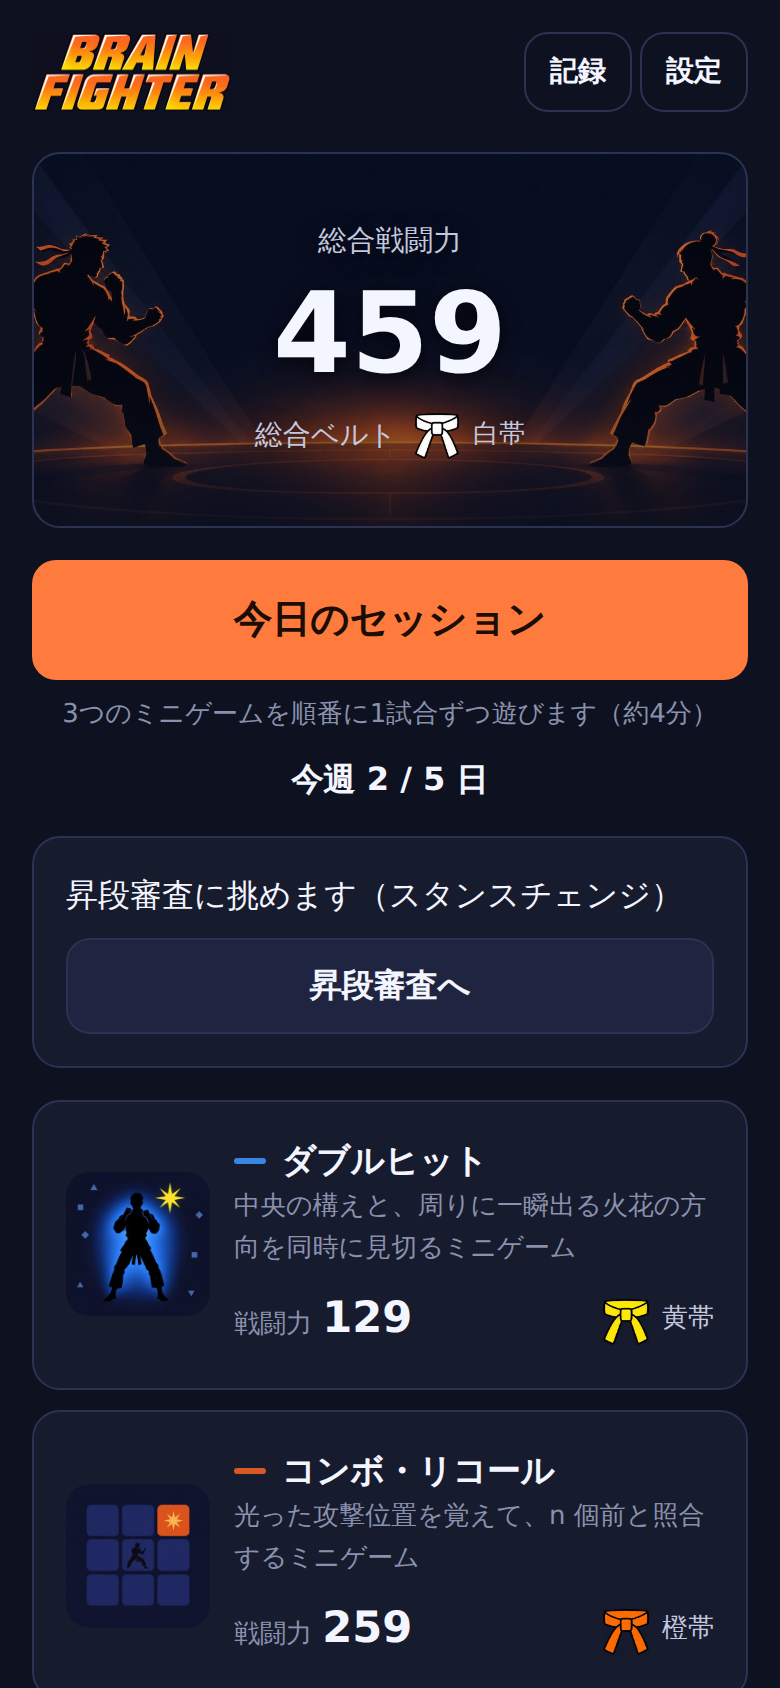
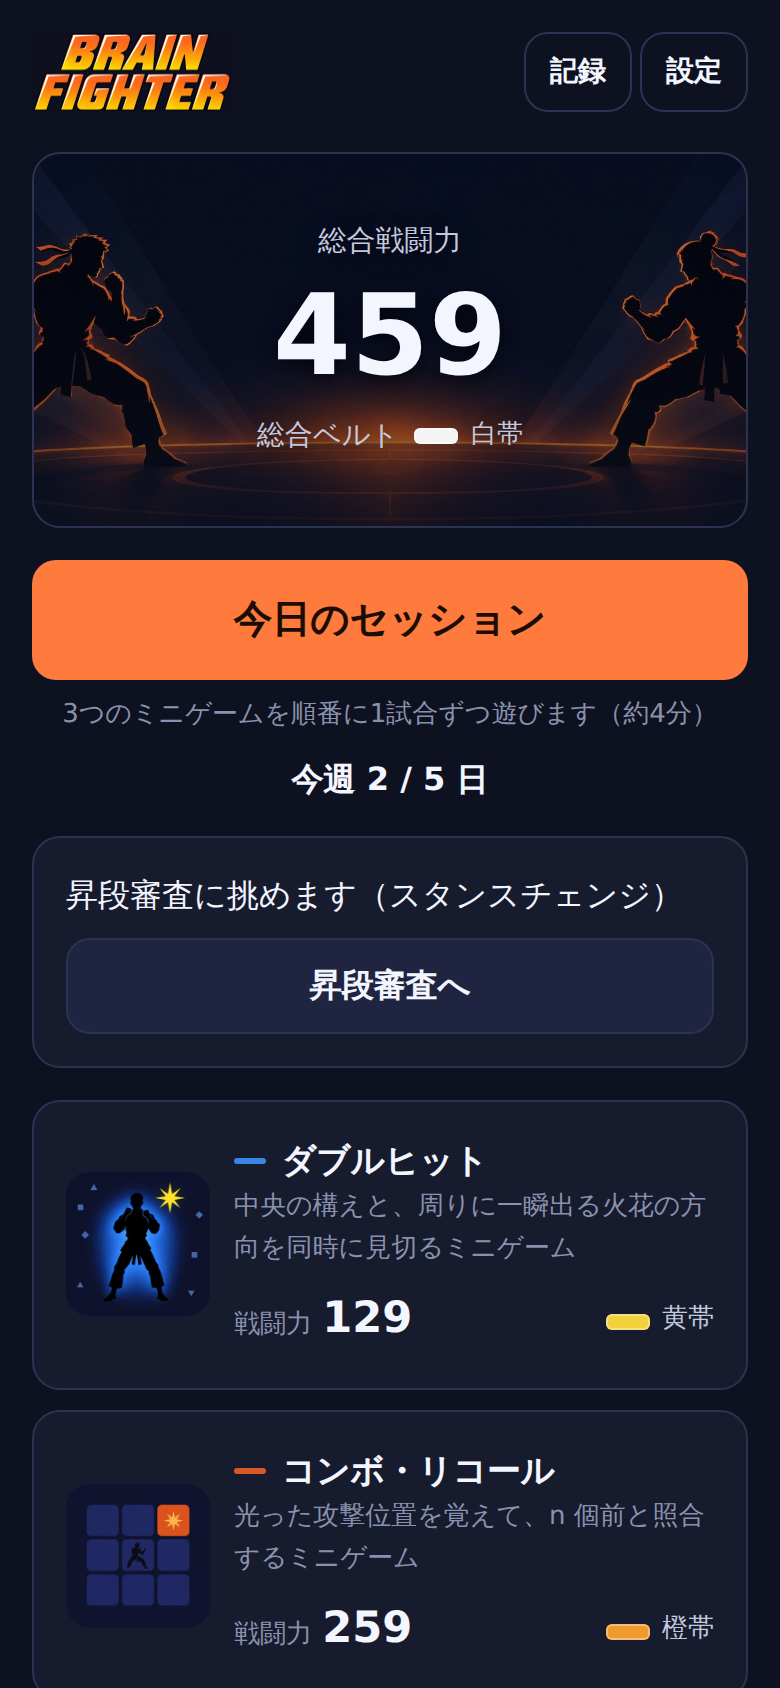
ダブルヒットの構えを生成シルエットで描く（仕様書 v1.7）。ビルド ID の表示と新版の自動再読み込みを追加
cloud-workspace リポジトリの brain-fighter/（ブランチ ccr-7d8c70c1-ms9nqj、コミット cb933bb）を反映:
- ダブルヒットの中央の敵（構え）を、正面向きの敵 4 体 × 上段・中段・下段 の生成シルエットで描く。
  図形と同じ外接矩形・同じ色・同じ提示時間で、火花・妨害・マスクは図形のまま。読み込み前は図形
- 設定画面の「バージョン」にビルド ID（日付＋コミット）を併記。新しい版は試合中以外で自動再読み込み
- 公開版の表示（一本勝負・判定負けの「次は ◯ 問正解で KO」・汎用の一言の順番）を取り込み済み
- 単体テスト 474 件、E2E（演出プリセット・スモーク・同値性・認定戦・案内・埋め込み・PWA）が緑

Claude-Session: https://claude.ai/code/session_01LeejvMbRXbY8z87NwHNxxe

diff --git a/src/games/double-hit/render.ts b/src/games/double-hit/render.ts
@@ -5,11 +5,14 @@
  * 表層バリエーション（surface）で変わるのは、敵シルエットの形（髪・体格・道着）と背景色だけ。
  * 背景色は相対輝度をそろえてあり、刺激の大きさ・色・コントラスト・提示時間は変わらない。
  * 構えの区別（拳の高さ）は、どのバリエーションでも同じ形。
+ * 敵シルエットは、ラウンドの開始時に読み込み済みなら生成画像（fighters/dh-*-*.png。仕様書 v1.7）を
+ * 図形と同じ外接矩形・同じ色で描き、無ければ図形で描く（drawFigure）。火花・妨害・マスクは常に図形。
  *
  * 認定戦（view.untrained）では、火花と妨害の形・色を訓練と別のセットにする（輝度はそろえてある）。
  */
 import { mulberry32 } from '../../engine/rng';
 import type { PhaseName, RenderView, Response } from '../../engine/types';
+import { artInRound, drawSprite, type SpriteKey } from '../../skin/art';
 import { DIR_GROUP, DIRS, dirVector, type StanceId } from './layout';
 import { sparkPosition, type DhTrial, type Distractor } from './trials';
 
@@ -69,6 +72,17 @@ export const DISTRACTOR_R = 0.034;
 export const SOCKET_R = 0.085;
 /** シルエット全体の高さ（上段の拳の上端〜足元）。刺激領域の中心に置き、上下 ±0.22 に収まる */
 export const FIGURE_HEIGHT = 0.44;
+
+/**
+ * 構えの生成シルエット（表層の体 × 構え。仕様書 v1.7）。上段の拳の上端〜足元の高さが図形と同じ FIGURE_HEIGHT になるよう
+ * 加工してあり（scripts/art/process.mjs の ref = 上段）、中段・下段は同じ倍率なので頭の高さが同じで拳の高さだけ違う。
+ */
+export const STANCE_SPRITES: Readonly<Record<FigureVariant, Readonly<Record<StanceId, SpriteKey>>>> = {
+  plain: { high: 'dh-plain-high', mid: 'dh-plain-mid', low: 'dh-plain-low' },
+  topknot: { high: 'dh-topknot-high', mid: 'dh-topknot-mid', low: 'dh-topknot-low' },
+  broad: { high: 'dh-broad-high', mid: 'dh-broad-mid', low: 'dh-broad-low' },
+  robe: { high: 'dh-robe-high', mid: 'dh-robe-mid', low: 'dh-robe-low' },
+};
 
 const SOCKET_FILL = 'rgba(255, 255, 255, 0.06)';
 const SOCKET_STROKE = 'rgba(201, 207, 232, 0.55)';
@@ -147,7 +161,11 @@ const BODIES: Record<FigureVariant, Body> = {
   robe: { headR: 0.095, shoulderW: 0.155, waistW: 0.095, legW: 0.1, topknot: false, robe: true },
 };
 
-/** シルエットを描く（cx, cy = 刺激領域の中心、R = 刺激領域の半径） */
+/**
+ * シルエットを描く（cx, cy = 刺激領域の中心、R = 刺激領域の半径）。
+ * ラウンドの開始時に読み込み済みの生成シルエットがあれば、図形と同じ外接矩形（中心 ±0.22R）・同じ色で描く。
+ * 無ければ（読み込み前・読めない環境・Node のテスト）図形で描く。
+ */
 export function drawFigure(
   ctx: CanvasRenderingContext2D,
   cx: number,
@@ -156,6 +174,10 @@ export function drawFigure(
   stance: StanceId,
   variant: FigureVariant,
 ): void {
+  const box = FIGURE_HEIGHT * R;
+  if (drawSprite(ctx, STANCE_SPRITES[variant][stance], { x: cx, ground: cy + box / 2, height: box, facing: 1, color: FIGURE_COLOR }, artInRound)) {
+    return;
+  }
   const h = (FIGURE_HEIGHT * R) / (FIG_BOTTOM - FIG_TOP);
   const feetY = cy - ((FIG_TOP + FIG_BOTTOM) / 2) * h;
   const X = (p: Pt, side: number): number => cx + side * p.x * h;

diff --git a/src/games/double-hit/trials.test.ts b/src/games/double-hit/trials.test.ts
@@ -2,6 +2,7 @@
  * ダブルヒットの試行列（系列の制約・妨害の配置）、判定の内訳、応答レイアウト・キー、刺激領域のタップ、描画。
  */
 import { describe, expect, it } from 'vitest';
+import { ART_SPRITES, SPRITE_STANDING_HEIGHT } from '../../skin/art';
 import { mulberry32 } from '../../engine/rng';
 import { maxRunLength } from '../../engine/sequence';
 import { layoutGroups, type RenderView, type RoundOptions } from '../../engine/types';
@@ -12,12 +13,14 @@ import { paramsAt, certDhParams } from './params';
 import {
   DISTRACTOR_R,
   FIGURE_COLOR,
+  FIGURE_HEIGHT,
   MASK_RES,
   SPARK_R,
   SURFACES,
   TRAINED_SET,
   UNTRAINED_SET,
   figureExtent,
+  STANCE_SPRITES,
   maskPixels,
   renderTrial,
 } from './render';
@@ -100,6 +103,23 @@ describe('妨害の配置', () => {
     }
     expect(problems).toEqual([]);
   }, 30_000);
+
+  it('構えの生成シルエット（4 体 × 3 構え）は図形と同じ外接矩形に収まる（高さ 0.44R・横 ±0.16R。仕様書 v1.7）', () => {
+    const scale = FIGURE_HEIGHT / SPRITE_STANDING_HEIGHT; // R = 1 のときの px → 比
+    for (const variant of SURFACES.map((s) => s.figure)) {
+      const keys = STANCE_SPRITES[variant];
+      for (const stance of ['high', 'mid', 'low'] as const) {
+        const e = ART_SPRITES[keys[stance]];
+        const height = e.h * scale;
+        const halfWidth = (e.w * scale) / 2;
+        expect(height, keys[stance]).toBeLessThanOrEqual(0.45);
+        expect(halfWidth, keys[stance]).toBeLessThan(0.16);
+        // 上段は拳の上端〜足元が外接矩形いっぱい（高さの基準）。中段・下段は頭が上端なので低い
+        if (stance === 'high') expect(height, keys[stance]).toBeGreaterThan(0.43);
+        else expect(height, keys[stance]).toBeLessThan(ART_SPRITES[keys.high].h * scale);
+      }
+    }
+  });
 
   it('置き場所どうし・火花・中央のシルエットと重ならず、刺激領域の内側に収まる', () => {
     const fig = figureExtent();

diff --git a/src/skin/art-manifest.ts b/src/skin/art-manifest.ts
@@ -19,6 +19,18 @@ export const ART_SPRITES = {
   'enemy-front-a': { file: 'fighters/enemy-front-a.png', w: 310, h: 648 },
   'enemy-front-b': { file: 'fighters/enemy-front-b.png', w: 365, h: 668 },
   'enemy-front-c': { file: 'fighters/enemy-front-c.png', w: 298, h: 645 },
+  'dh-plain-high': { file: 'fighters/dh-plain-high.png', w: 239, h: 647 },
+  'dh-plain-mid': { file: 'fighters/dh-plain-mid.png', w: 236, h: 586 },
+  'dh-plain-low': { file: 'fighters/dh-plain-low.png', w: 238, h: 586 },
+  'dh-topknot-high': { file: 'fighters/dh-topknot-high.png', w: 240, h: 647 },
+  'dh-topknot-mid': { file: 'fighters/dh-topknot-mid.png', w: 240, h: 600 },
+  'dh-topknot-low': { file: 'fighters/dh-topknot-low.png', w: 240, h: 600 },
+  'dh-broad-high': { file: 'fighters/dh-broad-high.png', w: 237, h: 647 },
+  'dh-broad-mid': { file: 'fighters/dh-broad-mid.png', w: 238, h: 571 },
+  'dh-broad-low': { file: 'fighters/dh-broad-low.png', w: 236, h: 571 },
+  'dh-robe-high': { file: 'fighters/dh-robe-high.png', w: 231, h: 647 },
+  'dh-robe-mid': { file: 'fighters/dh-robe-mid.png', w: 234, h: 581 },
+  'dh-robe-low': { file: 'fighters/dh-robe-low.png', w: 236, h: 581 },
 } as const satisfies Record<string, ArtEntry>;
 
 export type SpriteKey = keyof typeof ART_SPRITES;
@@ -44,14 +56,4 @@ export const ART_UI = {
 
 /** ベルト（0 白帯 … 9 黒帯二段）。無ければ空（CSS の色見本で代用する） */
 export const ART_BELTS: readonly ArtEntry[] = [
-  { file: 'ui/belt-0.png', w: 80, h: 84 },
-  { file: 'ui/belt-1.png', w: 81, h: 84 },
-  { file: 'ui/belt-2.png', w: 81, h: 84 },
-  { file: 'ui/belt-3.png', w: 81, h: 84 },
-  { file: 'ui/belt-4.png', w: 81, h: 84 },
-  { file: 'ui/belt-5.png', w: 81, h: 84 },
-  { file: 'ui/belt-6.png', w: 81, h: 84 },
-  { file: 'ui/belt-7.png', w: 81, h: 84 },
-  { file: 'ui/belt-8.png', w: 81, h: 84 },
-  { file: 'ui/belt-9.png', w: 81, h: 84 },
 ];

diff --git a/src/skin/art.ts b/src/skin/art.ts
@@ -30,6 +30,19 @@ const NATURAL_FACING: Readonly<Record<SpriteKey, 1 | -1 | 0>> = {
   'enemy-front-a': 0,
   'enemy-front-b': 0,
   'enemy-front-c': 0,
+  // ダブルヒットの構え（正面）
+  'dh-plain-high': 0,
+  'dh-plain-mid': 0,
+  'dh-plain-low': 0,
+  'dh-topknot-high': 0,
+  'dh-topknot-mid': 0,
+  'dh-topknot-low': 0,
+  'dh-broad-high': 0,
+  'dh-broad-mid': 0,
+  'dh-broad-low': 0,
+  'dh-robe-high': 0,
+  'dh-robe-mid': 0,
+  'dh-robe-low': 0,
 };
 
 export function artUrl(file: string): string {

diff --git a/DESIGN_NOTES.md b/DESIGN_NOTES.md
@@ -204,7 +204,7 @@
 ## 画像素材（生成画像。フェーズ4）
 
 - 画像は GPT Image 2.5（Genspark CLI、`../genspark-image/gen.sh`）で生成した。元画像は `art-src/raw/`、プロンプトとオプションは `art-src/PROMPTS.md`、加工は `scripts/art/process.mjs`（ImageMagick 6。`npm run art`）。出力は `public/art/`（約 650KB）と `public/icons/`、一覧と寸法は `src/skin/art-manifest.ts`（生成物）。
-- 仕様書 9.2「外部画像素材を使わない」の解釈: 他者の素材（ドット絵パックなど）は使わないまま、自分で生成した静止画を演出層と UI に使う。刺激そのもの（ダブルヒットの構え・火花・妨害・マスク、コンボ・リコールの点灯マス、スタンスチェンジの攻撃アイコンと構えのプレート）は図形のままで、大きさ・色・コントラスト・提示時間は変えていない（MUST）。
+- 仕様書 9.2「外部画像素材を使わない」の解釈: 他者の素材（ドット絵パックなど）は使わないまま、自分で生成した静止画を演出層と UI に使う。刺激のうち火花・妨害・マスク（ダブルヒット）、点灯マス（コンボ・リコール）、攻撃アイコンと構えのプレート（スタンスチェンジ）は図形のままで、大きさ・色・コントラスト・提示時間は変えていない（MUST）。ダブルヒットの中央の敵（構え）だけは、下の「ダブルヒットの構えのシルエット」のとおり生成画像で描く（仕様書 v1.7）。
 - 使う場所: ホーム（ロゴ・キービジュアルの上に総合戦闘力・ゲームカードのサムネイル・ベルトのアイコン）、初回の案内（キービジュアル＋ロゴ）、上帯のアバター（HP バーの外側の静止画）、ラウンド間と結果画面のファイターの絵（ラウンドの外）、Full の静的な背景（ステージの画像を画面全体に敷いて暗い膜をかける。刺激領域は不透明なので重ならない）、コンボ・リコールの中央の敵とスタンスチェンジの薄い敵（刺激領域の中だが、点灯・アイコンの位置と色には関わらない盤の一部の静止画）、アプリアイコン。
 - 画像が無い・読めない環境では、どの場所も今までの図形の描画に戻る（Node のユニットテストはこの経路で、画像の有無で描画の呼び出しが変わらないことを確かめている）。
 - 刺激領域で使う画像は、ラウンドの開始時（`GameStage.runRound`）に読み込み済みのものに固定する（`freezeArtForRound` / `artInRound`）。途中で読み終わった画像は次のラウンドから使う（ラウンドの途中で見た目が変わらない。仕様書 4.2・9.5）。起動時に試合で使う画像を先に読む（`preloadArt`）。
@@ -245,3 +245,10 @@
 - 設定画面の「バージョン」にビルド ID（日付＋コミットの先頭 7 桁。`vite.config.ts` の `__BUILD_ID__`。Actions では `GITHUB_SHA`）を併記し、どの版が配信されているかを見分けられるようにした。`package.json` の版は 0.2.0 に。
 - 新しい版の取り込み: Service Worker は `skipWaiting` + `clientsClaim` で、開いている画面もすぐ新しい SW が引き継ぐ。`src/main.ts` は `controllerchange` で一度だけ再読み込みする（初回のインストールでは何もしない。試合・審査の画面では待って、次の画面に移るときに再読み込み）。タブが前面に戻ったときにも `registration.update()` で確かめる。`?test=1` では無効。
 - それでも古い版が出るときは、タブをすべて閉じて開き直す（1 回目で新しい SW が入り、2 回目から新しい画面）。ホーム画面に追加した PWA は、開き直したときに同じ流れで更新される。
+
+## ダブルヒットの構えのシルエット（生成画像。仕様書 v1.7）
+
+- 公開後に「ダブルヒットが古いまま」というフィードバックがあった（中央の敵が図形のままで、ほかの 2 ゲームの敵は画像になっていた）。中央の敵は刺激そのものなので、仕様書 9.2 に条件を足して（v1.7）生成シルエットで描くことにした。
+- 素材: 表層バリエーションの 4 体（標準・髷・がっしり・道着）それぞれに 上段・中段・下段 の 3 構えを 1 枚のシートで生成（`art-src/raw/dh-*-sheet.jpg`、`npm run art` で `fighters/dh-*-*.png` に分ける。高さの基準は上段 = 拳の上端〜足元）。
+- 描き方（`drawFigure`）: ラウンドの開始時に読み込み済みのスプライト（`artInRound`）があれば、図形と同じ外接矩形（中心 ±0.22R、高さ 0.44R）・同じ色（`FIGURE_COLOR` に染める）・同じ背景で描く。上段の拳の上端が矩形の上端、足元が下端。中段・下段は同じ倍率で描くので頭の高さは同じで、拳の高さだけが違う。無ければ従来の図形（Node のテストはこの経路）。火花・妨害・マスク・応答の丸は変えていない。
+- 確かめたこと: スプライトの寸法から、どの構えも図形の外接矩形（横 ±0.16R）に収まること（`trials.test.ts`）。シートの各構えの拳の高さ（上段 = 頭より上、中段 = 肩、下段 = 腰）は加工時に目で確かめた。

diff --git a/art-src/PROMPTS.md b/art-src/PROMPTS.md
@@ -16,6 +16,7 @@
 | `player-sheet.jpg` | 自キャラ（構え・突き・勝ちポーズ）→ `fighters/player-*.png` | `-r 3:2 -s 2k` |
 | `enemy-side-sheet.jpg` | 敵（横向きの構え・ダウン）→ `fighters/enemy-guard.png` `enemy-down.png` | `-r 3:2 -s 2k` |
 | `enemy-front-sheet.jpg` | 敵の正面 3 体（標準・がっしり・細身）→ `fighters/enemy-front-{a,b,c}.png` | `-r 3:2 -s 2k` |
+| `dh-plain-sheet.jpg` `dh-topknot-sheet.jpg` `dh-broad-sheet.jpg` `dh-robe-sheet.jpg` | ダブルヒットの構え（正面 4 体 × 上段・中段・下段）→ `fighters/dh-{plain,topknot,broad,robe}-{high,mid,low}.png` | `-r 3:2 -s 2k` |
 | `stage-dojo.jpg` `stage-city.jpg` `stage-mountain.jpg` `stage-bridge.jpg` | ステージ背景 → `stages/*.jpg` | `-r 16:9 -s 2k` |
 | `logo-green.jpg` | ロゴ → `ui/logo.png` | `-r 2:1 -s 2k` |
 | `hero.jpg` | ホームのキービジュアル → `ui/hero.jpg` | `-r 2:1 -s 2k` |
@@ -24,6 +25,22 @@
 | `belts-green.jpg` | ベルト 10 本 → `ui/belt-{0..9}.png` | `-r 2:1 -s 2k` |
 
 ## プロンプト
+
+### dh-plain-sheet
+
+> Three solid black silhouettes of the same martial artist opponent, a standard athletic build with short hair, wearing a headband with two tails, seen from the FRONT (facing the viewer, body square to the camera, symmetrical), shadow puppet (kage-e) style, flat vector, crisp clean edges, no gradients, no outline strokes, no ground shadow, on a pure white background, arranged in a single horizontal row with generous empty white space between them and never touching, all exactly the same height and body proportions with feet on the same invisible baseline, feet shoulder-width apart. Only the arms differ: (1) left: HIGH guard, both arms raised straight up with both fists held high above the top of the head; (2) middle: MIDDLE guard, both elbows bent and tucked in, both fists held at shoulder height right beside the shoulders, close to the body; (3) right: LOW guard, both arms hanging down, both fists held at hip height right beside the hips. No text, no labels, no numbers, nothing else in the image
+
+### dh-topknot-sheet
+
+> Three solid black silhouettes of the same martial artist opponent, a standard athletic build with a samurai topknot (chonmage) hairstyle, seen from the FRONT (facing the viewer, body square to the camera, symmetrical), shadow puppet (kage-e) style, flat vector, crisp clean edges, no gradients, no outline strokes, no ground shadow, on a pure white background, arranged in a single horizontal row with generous empty white space between them and never touching, all exactly the same height and body proportions with feet on the same invisible baseline, feet shoulder-width apart. Only the arms differ: (1) left: HIGH guard, both arms raised straight up with both fists held high above the top of the head; (2) middle: MIDDLE guard, both elbows bent and tucked in, both fists held at shoulder height right beside the shoulders, close to the body; (3) right: LOW guard, both arms hanging down, both fists held at hip height right beside the hips. No text, no labels, no numbers, nothing else in the image
+
+### dh-broad-sheet
+
+> Three solid black silhouettes of the same martial artist opponent, a heavy, very broad-shouldered and muscular build, bald head, seen from the FRONT (facing the viewer, body square to the camera, symmetrical), shadow puppet (kage-e) style, flat vector, crisp clean edges, no gradients, no outline strokes, no ground shadow, on a pure white background, arranged in a single horizontal row with generous empty white space between them and never touching, all exactly the same height and body proportions with feet on the same invisible baseline, feet shoulder-width apart. Only the arms differ: (1) left: HIGH guard, both arms raised straight up with both fists held high above the top of the head; (2) middle: MIDDLE guard, both elbows bent and tucked in, both fists held at shoulder height right beside the shoulders, close to the body; (3) right: LOW guard, both arms hanging down, both fists held at hip height right beside the hips. No text, no labels, no numbers, nothing else in the image
+
+### dh-robe-sheet
+
+> Three solid black silhouettes of the same martial artist opponent, a slim build wearing a long loose martial-arts robe with wide sleeves and a hakama, hair tied back, seen from the FRONT (facing the viewer, body square to the camera, symmetrical), shadow puppet (kage-e) style, flat vector, crisp clean edges, no gradients, no outline strokes, no ground shadow, on a pure white background, arranged in a single horizontal row with generous empty white space between them and never touching, all exactly the same height and body proportions with feet on the same invisible baseline, feet shoulder-width apart. Only the arms differ: (1) left: HIGH guard, both arms raised straight up with both fists held high above the top of the head; (2) middle: MIDDLE guard, both elbows bent and tucked in, both fists held at shoulder height right beside the shoulders, close to the body; (3) right: LOW guard, both arms hanging down, both fists held at hip height right beside the hips. No text, no labels, no numbers, nothing else in the image
 
 ### player-sheet
 

diff --git a/src/games/double-hit/README.md b/src/games/double-hit/README.md
@@ -83,7 +83,8 @@ e = 35% で 72 か所、45% で 88 か所。置き場所どうしの中心距離
 ### 描画・表層バリエーション・刺激セット
 
 - 敵シルエット（正面向き・明るい単色）。構えは拳の高さで区別する（上段 = 頭より上、中段 = 肩の高さで横、下段 = 腰の横）。色には頼らない。
-- 表層（`surfaceCount = 4`）: シルエットの形（標準・髷・がっしり・道着）と背景色（紺・緑・えんじ・紫）。背景色の相対輝度は 0.0084 にそろえ、火花・妨害・シルエットの色と大きさ、提示時間は変えない。構えの区別の形はどれも同じ。
+  ラウンドの開始時に読み込み済みなら生成画像のシルエット（`fighters/dh-*-*.png`。仕様書 v1.7）を図形と同じ外接矩形・同じ色で描き、無ければ図形で描く（`drawFigure`）。
+- 表層（`surfaceCount = 4`）: シルエットの形（標準・髷・がっしり・道着。生成画像も同じ 4 体）と背景色（紺・緑・えんじ・紫）。背景色の相対輝度は 0.0084 にそろえ、火花・妨害・シルエットの色と大きさ、提示時間は変えない。構えの区別の形はどれも同じ。
 - 訓練セット: 火花 = 黄色い 8 本の光、妨害 = 三角・四角・ひし形（暗い青灰色）。
 - 未訓練セット（認定戦 `untrained: true`）: 火花 = 水色の輪、妨害 = 丸・十字・六角形（暗い茶灰色）。訓練セットと相対輝度をそろえてある（火花は背景とのコントラスト比 13 前後、妨害は 1.9 前後）。
 - マスク: 刺激領域全体を、2 段（3×3 マスの粗いまだら＋細かい点）の灰色ノイズ 84×84 マスで覆う（試行ごとに固定の静止画。白の全面点滅にはしない）。模様は注視点の最初のフレームで小さな Canvas に書いておき、マスクのフレームでは拡大して 1 回貼るだけにする。刺激を消すフレームの描画が重いと表示が1フレーム遅れ、刺激が T より長く見えてしまうため（Pixel 7 相当の Canvas で、マスクの最初のフレームの描画は約 5 ms → 約 1 ms）。
